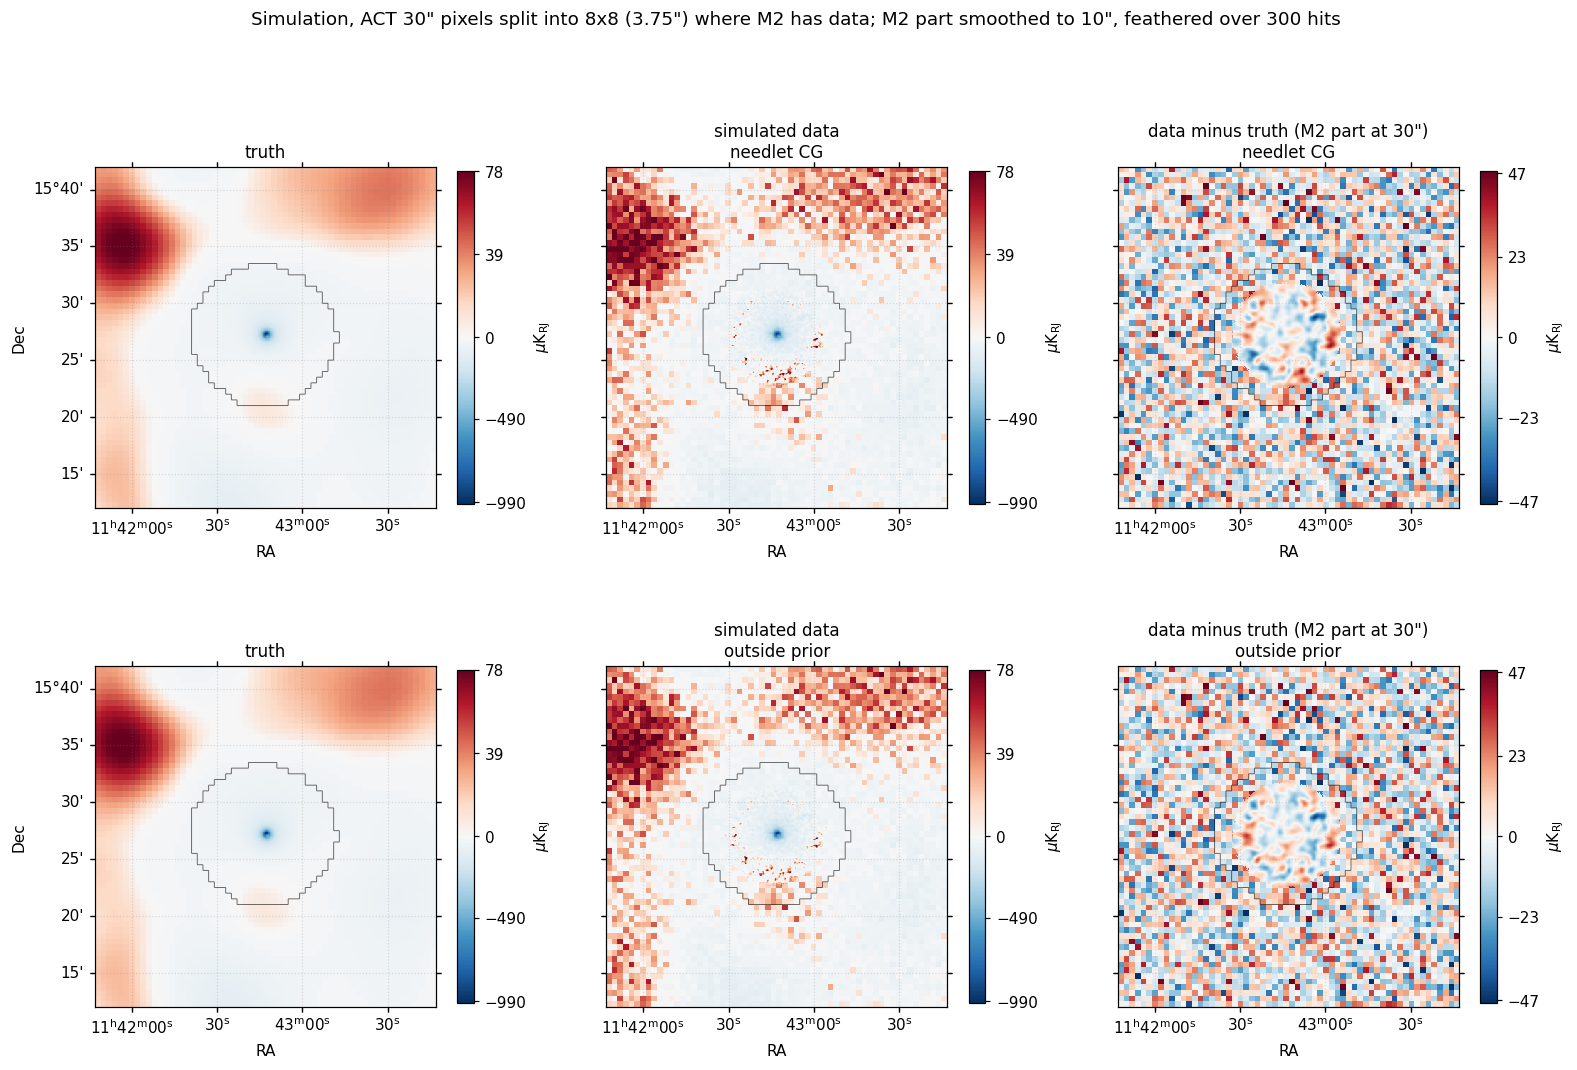
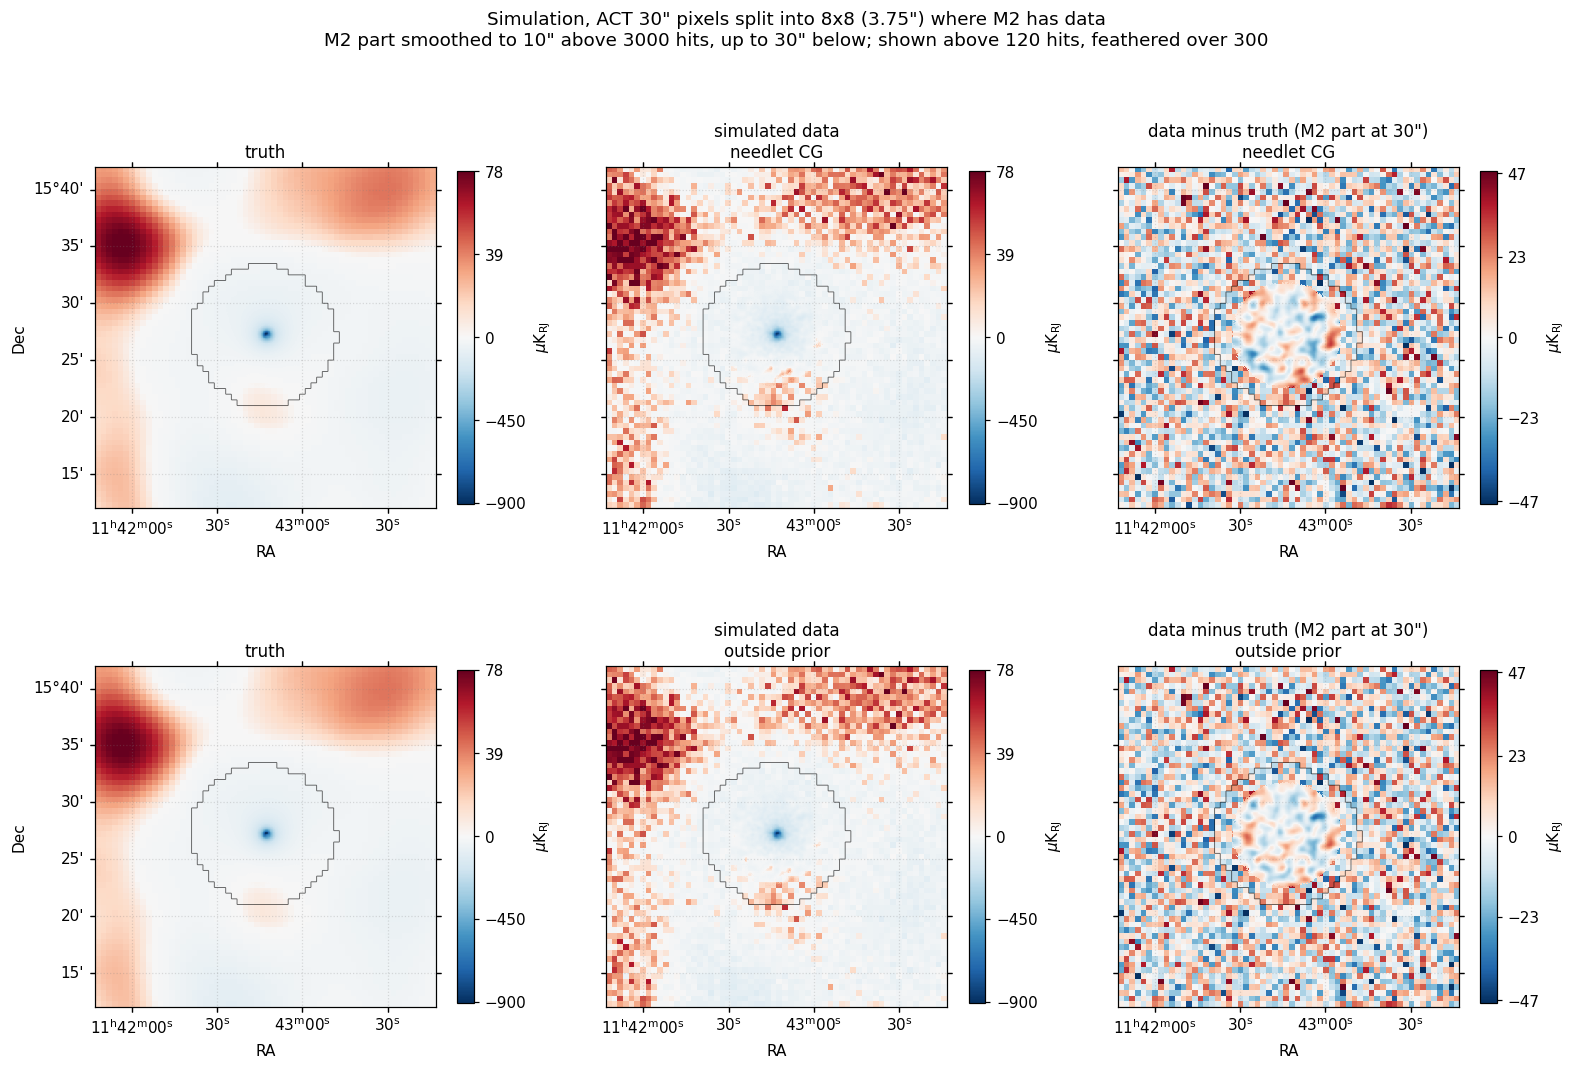
feat: hits-dependent display smoothing (--smooth-ref-hits, --smooth-max) for the multiscale maps; display settings in figure titles; figures and captions updated

diff --git a/reports/convergence_summary.html b/reports/convergence_summary.html
@@ -338,10 +338,10 @@ a:focus-visible { outline: 2px solid var(--accent); outline-offset: 2px; }
 <table>
 <thead><tr><th>Interior error / truth</th><th>Band 0</th><th>Band 1</th><th>Band 2</th><th>Largest scale (32–64 px)</th><th>Its transfer</th><th>Display residual rms, M2 part</th></tr></thead>
 <tbody>
-<tr><td>masked, iteration 600</td><td class="num">0.34</td><td class="num">0.36</td><td class="num">0.49</td><td class="num">0.32</td><td class="num">1.15</td><td class="num">12.3 µK</td></tr>
-<tr><td>masked + outside prior, 600</td><td class="num">0.12</td><td class="num">0.15</td><td class="num">0.24</td><td class="num">0.12</td><td class="num">1.08</td><td class="num">11.0 µK</td></tr>
+<tr><td>masked, iteration 600</td><td class="num">0.34</td><td class="num">0.36</td><td class="num">0.49</td><td class="num">0.32</td><td class="num">1.15</td><td class="num">11.1 µK</td></tr>
+<tr><td>masked + outside prior, 600</td><td class="num">0.12</td><td class="num">0.15</td><td class="num">0.24</td><td class="num">0.12</td><td class="num">1.08</td><td class="num">9.7 µK</td></tr>
 <tr><td><strong>no mask, no prior, 40</strong></td><td class="num">0.09</td><td class="num">0.07</td><td class="num">0.18</td><td class="num">0.09</td><td class="num">1.04</td><td class="num">–</td></tr>
-<tr><td><strong>no mask, no prior, 600</strong></td><td class="num">0.16</td><td class="num">0.10</td><td class="num">0.28</td><td class="num">0.10</td><td class="num">0.98</td><td class="num">11.3 µK</td></tr>
+<tr><td><strong>no mask, no prior, 600</strong></td><td class="num">0.16</td><td class="num">0.10</td><td class="num">0.28</td><td class="num">0.10</td><td class="num">0.98</td><td class="num">9.9 µK</td></tr>
 </tbody>
 </table>
 </div>
@@ -351,17 +351,18 @@ a:focus-visible { outline: 2px solid var(--accent); outline-offset: 2px; }
 <p>The figures below are for viewing only. They come from <code>examples/multiscale_map.py</code> (real data) and <code>examples/sim_multiscale.py</code> (simulation):</p>
 <ul>
 <li><strong>Base grid:</strong> 30″ ACT pixels. Each one containing M2 data (hits ≥ 20) is split into 8 × 8 sub-pixels of 3.75″.</li>
-<li><strong>What a sub-pixel shows:</strong> the joint map, smoothed to 10″, where it has at least 120 hits. It is feathered into the ACT value over the next 300 hits. Sub-pixels with fewer than 120 hits show their ACT pixel's value.</li>
+<li><strong>What a sub-pixel shows:</strong> the joint map, where it has at least 120 hits, feathered into the ACT value over the next 300 hits. Sub-pixels with fewer than 120 hits show their ACT pixel's value.</li>
+<li><strong>Smoothing that follows the hits:</strong> the joint map is smoothed to 10″ FWHM where it has at least 3000 hits. Below that, the FWHM grows as 10″ × √(3000 / hits), up to 30″ (<code>--smooth-ref-hits 3000</code>). The M2 noise after smoothing goes as 1 / (FWHM √hits), so this keeps the displayed noise about the same everywhere instead of letting it grow toward the edge. For 40 TODs the FWHM is about 16″ at the 90th-percentile hits and 30″ at the median. With all TODs the noise is about 1.6 times lower, so a smaller reference will do.</li>
 <li><strong>Display only:</strong> the threshold affects only the picture. The solve still uses every sample, which is what removes the edge bias, while the picture no longer shows the noisy low-hit pixels.</li>
 <li><strong>Elsewhere:</strong> unsplit pixels show the ACT map.</li>
 </ul>
 <div class="callout">
-<p><strong>Why low-hit pixels speckle.</strong> On the scales a few sub-pixels across, ACT contributes nothing: those are very high ℓ, where its beam transfer is 0.004 or less in band 4 and about 0 above (Figure 4). So at those scales the joint map is pure M2, and where M2 has few hits it is pure M2 noise. Its rms grows as 1/√hits, and the 10″ smoothing does not remove it. The joint solve is behaving correctly here: there is no information on those scales at those pixels, and the noise shows it. The display threshold (<code>--show-hits</code>) hides those pixels by showing the ACT value instead, which on those scales just means showing nothing. A larger smoothing near the edge would do the same while keeping the large scales of the joint map.</p>
+<p><strong>Why low-hit pixels speckle.</strong> On the scales a few sub-pixels across, ACT contributes nothing: those are very high ℓ, where its beam transfer is 0.004 or less in band 4 and about 0 above (Figure 4). So at those scales the joint map is pure M2, and where M2 has few hits it is pure M2 noise. Its rms grows as 1/√hits. With 40 TODs it is large even at full weight: 32 µK at 10″ smoothing for 420–1000 hits, against a positive colour range of only 78 µK set by the CMB, so noise peaks saturate. The joint solve is behaving correctly here: there is no information on those scales at those pixels, and the noise shows it. The display threshold (<code>--show-hits</code>) hides those pixels by showing the ACT value instead, which on those scales just means showing nothing. The hits-dependent smoothing deals with the rest: it smooths more where there are fewer hits, and keeps the large scales of the joint map.</p>
 </div>
 </div>
 <figure>
 <img src="figs/summary/best_sim_multiscale.png" alt="Simulation with no mask: truth, simulated data and residual as two-resolution maps">
-<figcaption><strong>Figure 8. Best configuration on the simulation: no mask, no prior, 600 iterations.</strong> Truth: the simulated sky, and in the ACT pixels the sky as a noiseless ACT sees it (ACT beam, pixel average). Data: the joint map, and in the ACT pixels a simulated ACT map with noise from the real ACT inverse variance. The residual's M2 part is smoothed to 30″. Its rms is 11.3 µK in the M2 part and 17.8 µK in the ACT pixels, which is ACT noise.</figcaption>
+<figcaption><strong>Figure 8. Best configuration on the simulation: no mask, no prior, 600 iterations.</strong> Truth: the simulated sky, and in the ACT pixels the sky as a noiseless ACT sees it (ACT beam, pixel average). Data: the joint map, and in the ACT pixels a simulated ACT map with noise from the real ACT inverse variance. The residual's M2 part is smoothed to 30″. Its rms is 9.9 µK in the M2 part and 17.8 µK in the ACT pixels, which is ACT noise.</figcaption>
 </figure>
 <figure>
 <img src="figs/summary/sim_multiscale.png" alt="Simulation: masked needlet solve and masked solve with the outside prior, truth, data and residual">

diff --git a/reports/needlet_mapmaking.html b/reports/needlet_mapmaking.html
@@ -291,7 +291,7 @@ out 9 [ G₉₀   G₉₁   G₉₂  …   G₉₉ ]</div>
 </ul>
 <figure>
   <img src="figs/summary/best_sim_multiscale.png" alt="Simulation, best configuration: truth, simulated data and residual as two-resolution maps">
-  <figcaption><strong>Best configuration on the simulation: no mask, no prior, 600 iterations.</strong> Display maps for viewing only: 30″ ACT pixels, split into 8 × 8 sub-pixels (3.75″) where M2 has data. A sub-pixel shows the joint map, smoothed to 10″, where it has at least 120 hits, feathered into ACT over the next 300 hits. Below 120 hits it shows its ACT pixel's value, since at those fine scales ACT carries no information and the map there would be pure low-hit M2 noise. The residual's M2 part is smoothed to 30″: 11 µK rms there, against 18 µK of ACT noise in the ACT pixels.</figcaption>
+  <figcaption><strong>Best configuration on the simulation: no mask, no prior, 600 iterations.</strong> Display maps for viewing only: 30″ ACT pixels, split into 8 × 8 sub-pixels (3.75″) where M2 has data. A sub-pixel shows the joint map where it has at least 120 hits, feathered into ACT over the next 300 hits. Below 120 hits it shows its ACT pixel's value, since at those fine scales ACT carries no information and the map there would be pure low-hit M2 noise. The joint map is smoothed to 10″ where it has at least 3000 hits, and more where it has fewer: FWHM 10″ × √(3000 / hits), up to 30″. That keeps the displayed M2 noise about constant. The residual's M2 part is smoothed to 30″: 10 µK rms there, against 18 µK of ACT noise in the ACT pixels.</figcaption>
 </figure>
 <figure>
   <img src="figs/summary/multiscale.png" alt="Real data: MOOJ1142 M2 plus ACT two-resolution map, masked solve">

diff --git a/examples/multiscale_map.py b/examples/multiscale_map.py
@@ -159,6 +159,67 @@ def fine_grid(act: enmap.ndmap, factor: int) -> tuple[WCS, tuple[int, int], np.n
     return wcs, up.shape, up
 
 
+def smooth_by_hits(
+    joint: np.ndarray,
+    m2: np.ndarray,
+    hits: np.ndarray,
+    pix: float,
+    fwhm: float,
+    ref_hits: float | None,
+    fwhm_max: float,
+    nlevel: int = 6,
+) -> np.ndarray:
+    """
+    Gaussian smoothing inside a region, normalised so that it does not pull in the values outside, with a width that
+    can grow where the hits are low: FWHM = fwhm * sqrt(ref_hits / hits), between fwhm and fwhm_max. The M2 noise per
+    pixel goes as 1 / sqrt(hits) and after smoothing as 1 / (FWHM sqrt(hits)), so this keeps the displayed noise about
+    constant below ref_hits.
+
+    Parameters
+    ----------
+    joint : np.ndarray
+        Map to smooth.
+    m2 : np.ndarray
+        Region to smooth within.
+    hits : np.ndarray
+        Hits per pixel.
+    pix : float
+        Pixel size in arcsec.
+    fwhm : float
+        FWHM in arcsec where hits >= ref_hits (everywhere if ref_hits is None).
+    ref_hits : float | None
+        Hits above which the FWHM is `fwhm`.
+    fwhm_max : float
+        Largest FWHM in arcsec.
+    nlevel : int, default: 6
+        Number of smoothing widths computed; each pixel interpolates between the two that bracket its FWHM.
+
+    Returns
+    -------
+    np.ndarray
+        The smoothed map.
+    """
+
+    def smooth(f):
+        sig = f / np.sqrt(8 * np.log(2)) / pix
+        return gaussian_filter(joint * m2, sig) / np.maximum(
+            gaussian_filter(m2.astype(float), sig), 1e-3
+        )
+
+    if not ref_hits or fwhm_max <= fwhm:
+        return smooth(fwhm)
+    target = np.clip(fwhm * np.sqrt(ref_hits / np.maximum(hits, 1e-3)), fwhm, fwhm_max)
+    levels = np.geomspace(fwhm, fwhm_max, nlevel)
+    maps = np.array([smooth(f) for f in levels])
+    t = np.interp(np.log(target), np.log(levels), np.arange(nlevel))
+    lo = np.floor(t).astype(int).clip(0, nlevel - 2)
+    frac = t - lo
+    rows = np.indices(t.shape)
+    return (1 - frac) * maps[lo, rows[0], rows[1]] + frac * maps[
+        lo + 1, rows[0], rows[1]
+    ]
+
+
 def compose(
     args, act_up: np.ndarray, joint: np.ndarray, hits: np.ndarray, pix: float
 ) -> tuple[np.ndarray, np.ndarray, np.ndarray]:
@@ -168,7 +229,7 @@ def compose(
     Parameters
     ----------
     args : argparse.Namespace
-        Parsed arguments (factor, min_hits, show_hits, smooth, match, feather_hits).
+        Parsed arguments (factor, min_hits, show_hits, smooth, smooth_ref_hits, smooth_max, match, feather_hits).
     act_up : np.ndarray
         ACT map as constant blocks on the fine grid (fine_grid).
     joint : np.ndarray
@@ -190,12 +251,9 @@ def compose(
     f = args.factor
     show = max(args.min_hits, args.show_hits or 0)
     m2 = hits >= show  # sub-pixels showing the joint map; the others keep the ACT value
-    if (
-        args.smooth > 0
-    ):  # normalised so the smoothing does not pull in the zeros outside the footprint
-        sig = args.smooth / np.sqrt(8 * np.log(2)) / pix
-        joint = gaussian_filter(joint * m2, sig) / np.maximum(
-            gaussian_filter(m2.astype(float), sig), 1e-3
+    if args.smooth > 0:
+        joint = smooth_by_hits(
+            joint, m2, hits, pix, args.smooth, args.smooth_ref_hits, args.smooth_max
         )
     has = hits >= args.min_hits  # ACT pixels with any of these are split
     blocks = has.reshape(has.shape[0] // f, f, has.shape[1] // f, f).any((1, 3))
@@ -239,6 +297,34 @@ def make_norm(image: np.ndarray, args) -> Normalize:
     return (
         TwoSlopeNorm(0.0, lo, hi) if args.stretch == "twoslope" else Normalize(lo, hi)
     )
+
+
+def smoothing_label(args) -> str:
+    """
+    Short description of the display settings for a figure title.
+
+    Parameters
+    ----------
+    args : argparse.Namespace
+        Parsed arguments (smooth, smooth_ref_hits, smooth_max, show_hits, min_hits, feather_hits).
+
+    Returns
+    -------
+    str
+        For example 'M2 part smoothed to 10" (above 3000 hits, up to 30" below), shown above 120 hits'.
+    """
+    if args.smooth <= 0:
+        sm = "M2 part unsmoothed"
+    elif args.smooth_ref_hits:
+        sm = (
+            f'M2 part smoothed to {args.smooth:g}" above {args.smooth_ref_hits:g} hits, '
+            f'up to {args.smooth_max:g}" below'
+        )
+    else:
+        sm = f'M2 part smoothed to {args.smooth:g}"'
+    show = max(args.min_hits, args.show_hits or 0)
+    fe = f", feathered over {args.feather_hits:g}" if args.feather_hits > 0 else ""
+    return f"{sm}; shown above {show:g} hits{fe}"
 
 
 def ticks(norm: Normalize) -> np.ndarray:
@@ -317,7 +403,7 @@ def plot(args, image, split, m2, wcs):
     pix = abs(wcs.wcs.cdelt[0]) * 3600
     ax.set_title(
         f'{args.title}\nACT {pix * args.factor:g}" pixels, split into {args.factor}x{args.factor} '
-        f'({pix:g}") where M2 has data',
+        f'({pix:g}") where M2 has data\n{smoothing_label(args)}',
         fontsize=10,
     )
     fig.savefig(args.out, dpi=args.dpi, bbox_inches="tight")
@@ -397,6 +483,18 @@ if __name__ == "__main__":
         type=float,
         default=0.0,
         help="Gaussian FWHM for the M2 part, arcsec",
+    )
+    parser.add_argument(
+        "--smooth-ref-hits",
+        type=float,
+        default=None,
+        help="Below this many hits the smoothing FWHM grows as sqrt(ref / hits), up to --smooth-max (default: fixed FWHM)",
+    )
+    parser.add_argument(
+        "--smooth-max",
+        type=float,
+        default=30.0,
+        help="arcsec, largest FWHM with --smooth-ref-hits",
     )
     parser.add_argument(
         "--feather-hits",

diff --git a/examples/sim_multiscale.py b/examples/sim_multiscale.py
@@ -29,6 +29,7 @@ from multiscale_map import (
     read_act_coadd,
     sample,
     sample_array,
+    smoothing_label,
     ticks,
 )
 from twores_ex import act_conversion
@@ -150,7 +151,7 @@ def main(args: argparse.Namespace):
             )
     fig.suptitle(
         f'Simulation, ACT {pix * args.factor:g}" pixels split into {args.factor}x{args.factor} ({pix:g}") '
-        f'where M2 has data; M2 part smoothed to {args.smooth:g}", feathered over {args.feather_hits:g} hits',
+        f"where M2 has data\n{smoothing_label(args)}",
         fontsize=12,
     )
     fig.savefig(args.out, dpi=args.dpi, bbox_inches="tight")
@@ -192,6 +193,18 @@ if __name__ == "__main__":
         help="Hits for a sub-pixel to show the joint map",
     )
     parser.add_argument("--smooth", type=float, default=10.0, help="arcsec")
+    parser.add_argument(
+        "--smooth-ref-hits",
+        type=float,
+        default=None,
+        help="Below this many hits the smoothing FWHM grows as sqrt(ref / hits), up to --smooth-max (default: fixed FWHM)",
+    )
+    parser.add_argument(
+        "--smooth-max",
+        type=float,
+        default=30.0,
+        help="arcsec, largest FWHM with --smooth-ref-hits",
+    )
     parser.add_argument("--feather-hits", type=float, default=200.0)
     parser.add_argument(
         "--res-smooth",
